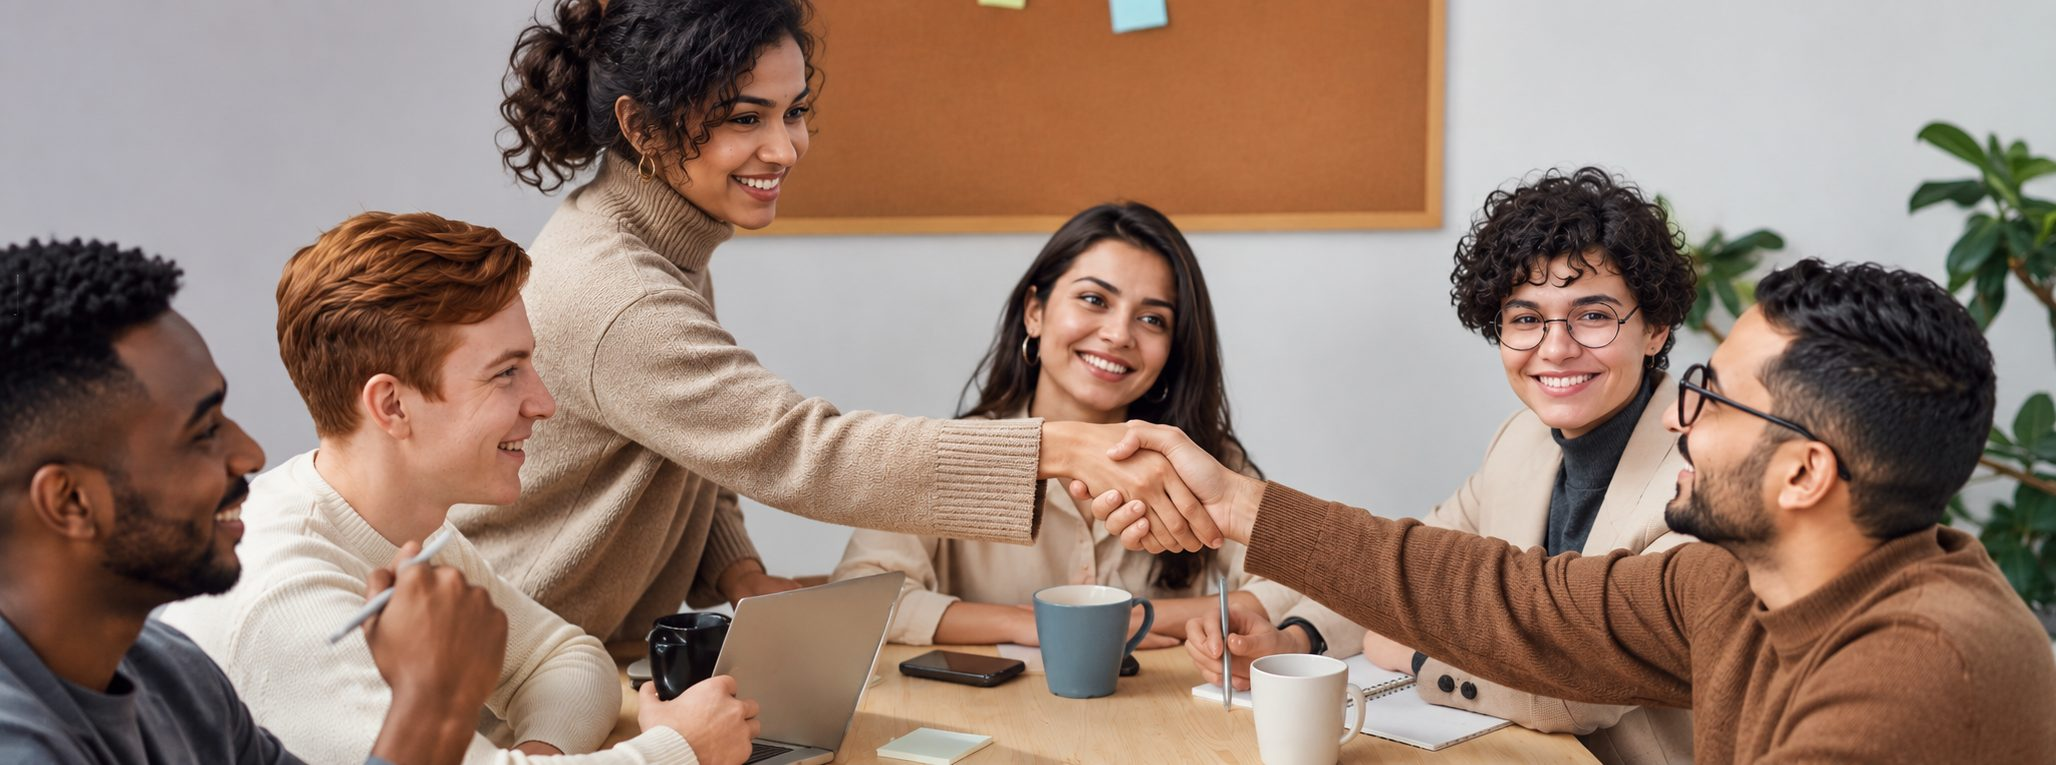
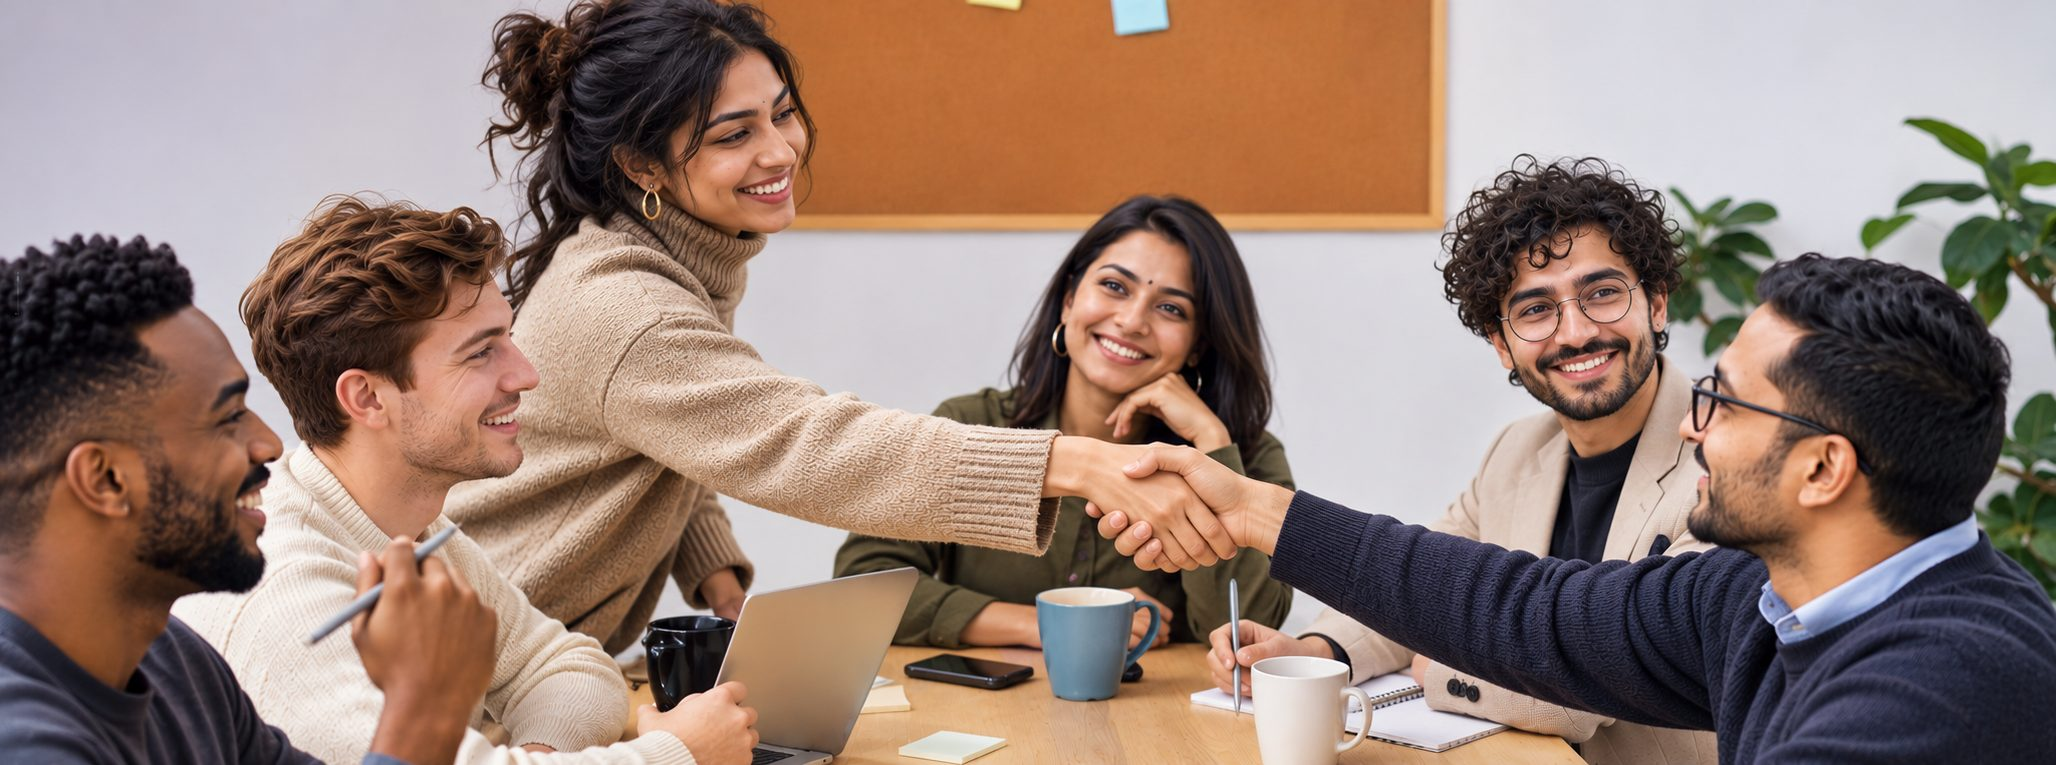
Hero2

diff --git a/css/site.css b/css/site.css
@@ -978,17 +978,6 @@
     max-width: none;
   }
 }
-.page-hero--visual .hero-credit {
-  margin: 1.25rem 0 0;
-  font-size: 0.75rem;
-  color: rgba(255, 255, 255, 0.65);
-}
-.page-hero--visual .hero-credit a {
-  color: rgba(255, 255, 255, 0.85);
-  text-decoration: underline;
-  text-underline-offset: 2px;
-}
-
 .band { padding: 0 1.5rem 4.5rem; }
 .band-inner { max-width: 46rem; margin: 0 auto; }
 .band h2 {

diff --git a/competition/index.html b/competition/index.html
@@ -47,7 +47,7 @@
       <img
         class="page-hero-media"
         src="/images/competition-hero.jpg"
-        alt="Professionals shaking hands across a conference table in a collaborative office meeting"
+        alt="Diverse professionals smiling as two colleagues shake hands across a conference table"
         width="2056"
         height="765"
         fetchpriority="high"
